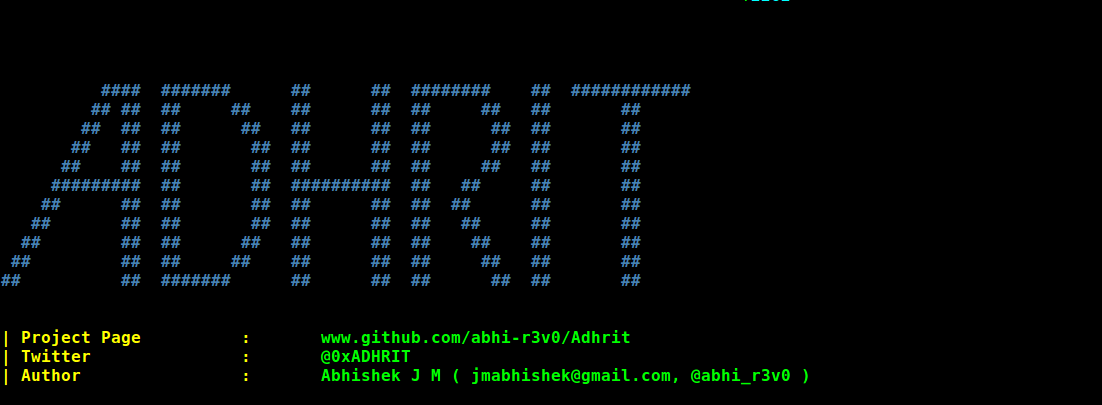
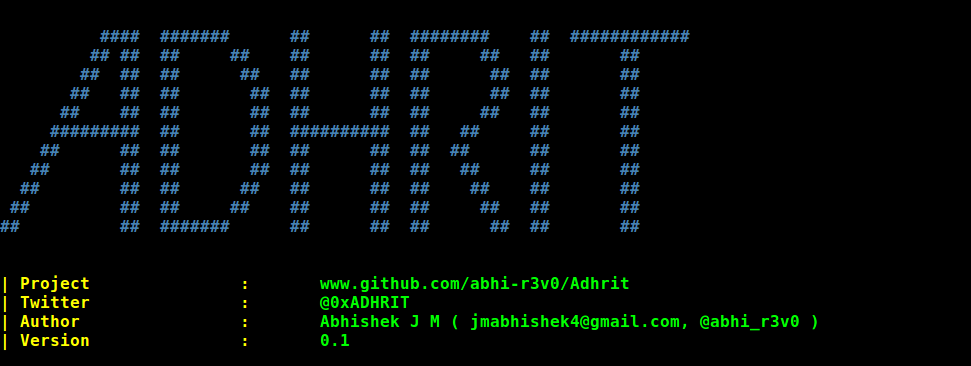
updates

diff --git a/adhrit.py b/adhrit.py
@@ -1,7 +1,7 @@
 # !/usr/bin/env python3
 
 # ADHRIT is an open source tool for Android apk analysis
-# and CTFs to extract maximum amount of information from an apk
+# to extract maximum amount of information from an apk
 
 import argparse
 from colorama import Fore, Style
@@ -39,9 +39,10 @@ class Adhrit:
         print("  ##        ##  ##      ##   ##      ##  ##    ##    ##       ##")
         print(" ##         ##  ##     ##    ##      ##  ##     ##   ##       ##")
         print("##          ##  #######      ##      ##  ##      ##  ##       ##")
-        print(Fore.YELLOW + Style.BRIGHT + "\n\n| Project Page\t\t:\t" + Fore.GREEN + "www.github.com/abhi-r3v0/Adhrit")
+        print(Fore.YELLOW + Style.BRIGHT + "\n\n| Project\t\t:\t" + Fore.GREEN + "www.github.com/abhi-r3v0/Adhrit")
         print(Fore.YELLOW + Style.BRIGHT + "| Twitter\t\t:\t" + Fore.GREEN + "@0xADHRIT")
         print(Fore.YELLOW + Style.BRIGHT + "| Author\t\t:\t" + Fore.GREEN + __author__)
+        print(Fore.YELLOW + Style.BRIGHT + "| Version\t\t:\t" + Fore.GREEN + "0.1")
 
     print("\n\n")
 

diff --git a/README.md b/README.md
@@ -1,6 +1,6 @@
 ![Logo](Docs/logo/banner.v3.png)
 
-![INDIA](https://img.shields.io/badge/From-India-orange.svg) ![BUILD STATUS](https://travis-ci.org/abhi-r3v0/Adhrit.svg?branch=master)   [![Open Source Love](https://badges.frapsoft.com/os/v2/open-source.svg?v=103)](https://www.github.com/abhi-r3v0/Adhrit)  [![GPL Licence](https://badges.frapsoft.com/os/gpl/gpl.png?v=103)](https://www.github.com/abhi-r3v0/Adhrit) 
+![INDIA](https://img.shields.io/badge/From-India-orange.svg) ![BUILD STATUS](https://travis-ci.org/abhi-r3v0/Adhrit.svg?branch=master)   [![Open Source Love](https://badges.frapsoft.com/os/v2/open-source.svg?v=103)](https://www.github.com/abhi-r3v0/Adhrit)
 [![made-with-python](https://img.shields.io/badge/Made%20with-Python-1f425f.svg)](https://www.python.org/) 
 [![saythanks](https://img.shields.io/badge/Say%20Thanks-!-1EAEDB.svg)](https://saythanks.io/to/abhi-r3v0)
 ![pep8](https://img.shields.io/badge/PEP8-Optimised-yellow.svg)
@@ -101,9 +101,6 @@ Example:  ```python3 adhrit.py -a my_app.apk```
 
 
 ![6](Docs/images/6.png)
-
-
-![7](Docs/images/7.png)
 
 ---
 
